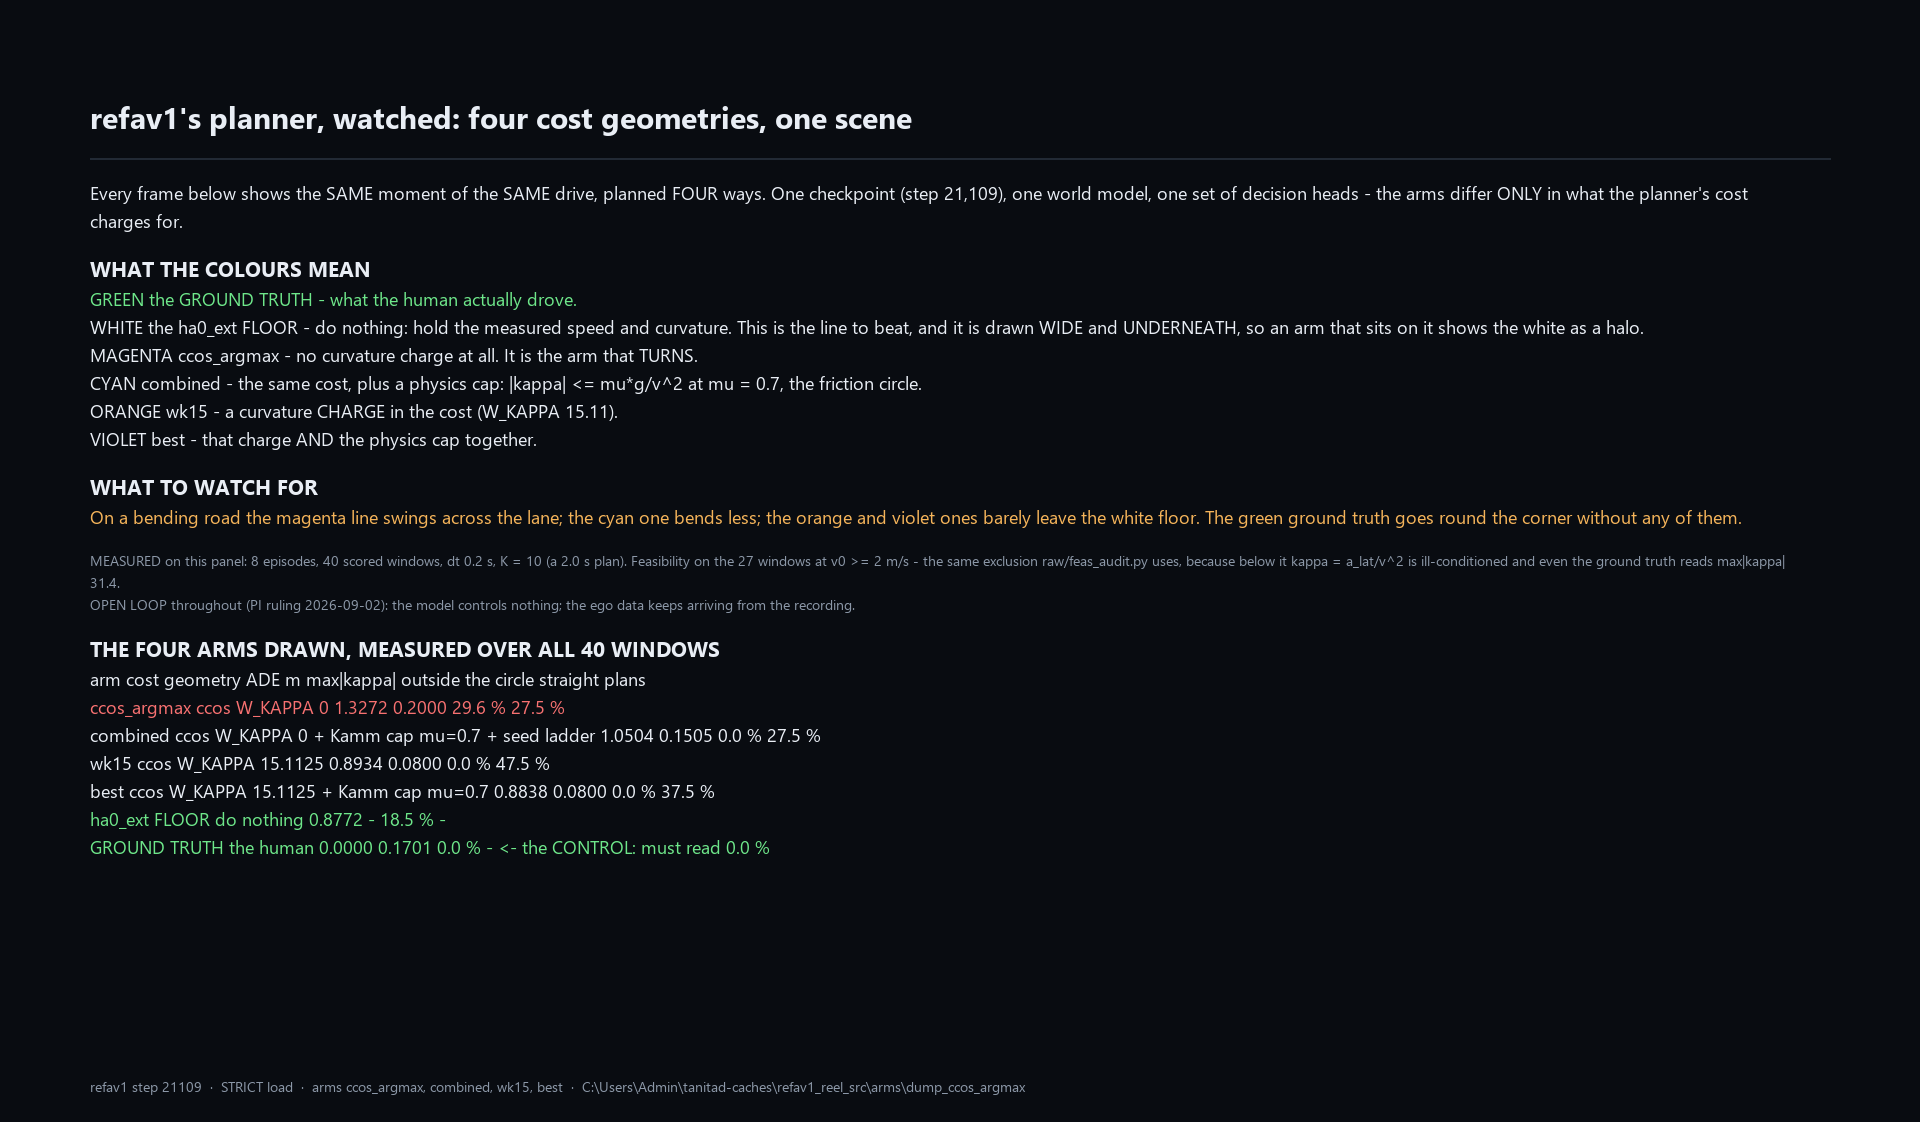
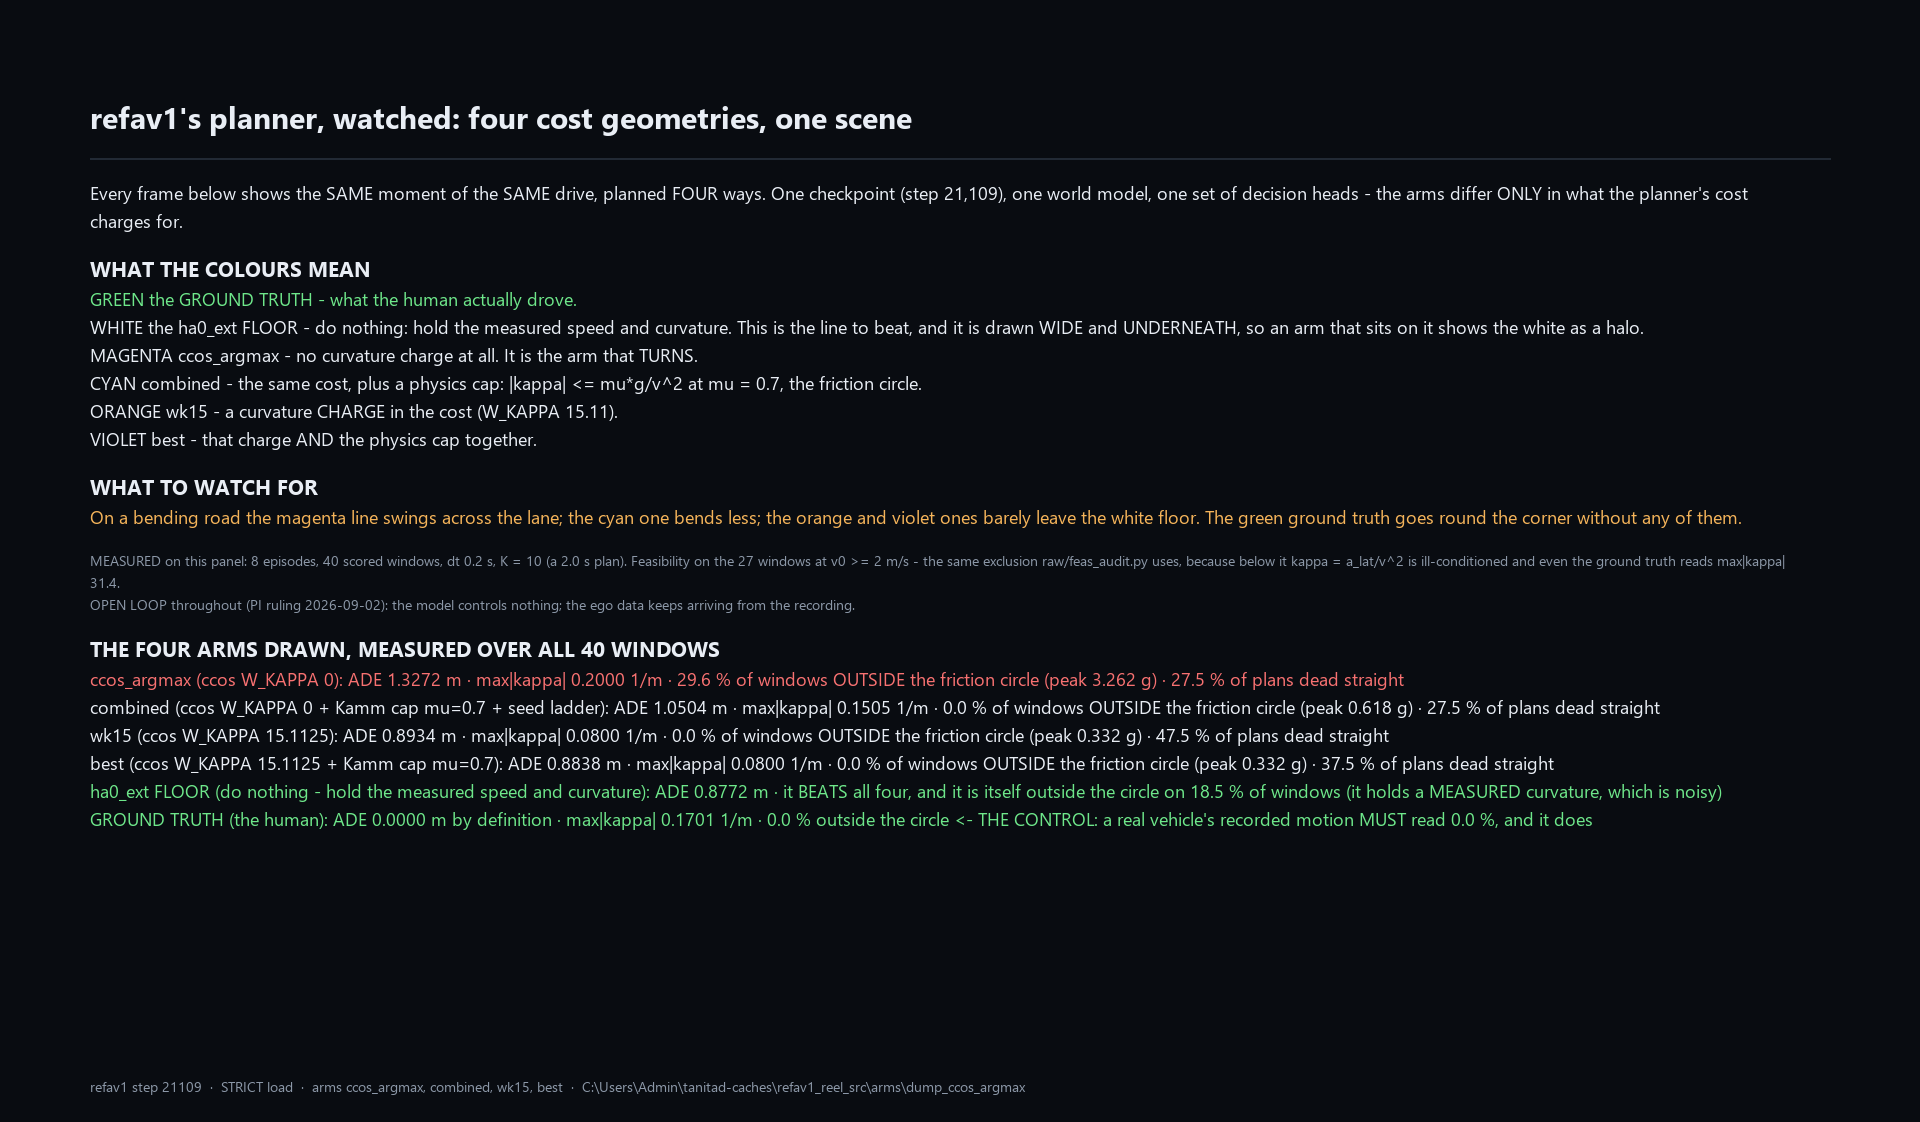
The reel's own cards were unreadable, and the floor is not inside the friction circle either
Two corrections to the arms reel, both found by looking at the artifact rather
than at the exit code.

1. THE CARDS WERE A GREY PARAGRAPH, NOT A TABLE. `draw_card` paints with a
   PROPORTIONAL face and wraps, so the column padding I had written collapsed
   into run-on text: "ccos_argmax ccos W_KAPPA 0 1.3272 0.2000 29.6 % 27.5 %".
   Every row is now a SENTENCE with its numbers labelled, which survives any
   face and any wrap. The intro and outro are the first and last thing a viewer
   reads; an unreadable summary of a 3.5-minute reel is a wasted reel.

2. THE DO-NOTHING FLOOR IS ITSELF OUTSIDE THE FRICTION CIRCLE ON 18.5 % OF
   WINDOWS (peak 1.436 g), and the doc had an em-dash there. MEASURED, and it
   matters: ha0_ext beats all four planner arms on ADE (0.8772 m against the
   best arm's 0.8838 m) while holding a MEASURED curvature that is noisy, so it
   is not a feasible reference -- only a hard-to-beat one. Writing "-" in that
   column let the floor read as safe as well as accurate, which it is not. Same
   family as quoting a number without its scope; the card now states it.

Refreshed stills, WINDOWS.json and STILLS.json from the corrected render (2,073
frames / 207.30 s, both mp4s DECODED BACK clean at 1920x1122 and 1280x748, both
under the 30 MiB delivery limit).

Changed region(s): [[0.0312, 0.5927, 0.9062, 0.7799]]

diff --git a/TanitAD Research Lab/Architecture & Inference/Research/2026-09-05-refav1-cost-geometry/raw/reel/make_cards.py b/TanitAD Research Lab/Architecture & Inference/Research/2026-09-05-refav1-cost-geometry/raw/reel/make_cards.py
@@ -139,21 +139,28 @@ intro = {"title": "refav1's planner, watched: four cost geometries, one scene",
        "nothing; the ego data keeps arriving from the recording."),
 ]}
 
-panel = [("THE FOUR ARMS DRAWN, MEASURED OVER ALL 40 WINDOWS", "h2"),
-         B("arm            cost geometry                          ADE m   "
-           "max|kappa|   outside the circle   straight plans")]
+# ⛔ NOT A MONOSPACED TABLE. `draw_card` paints with a PROPORTIONAL face and
+# wraps, so column padding collapses into run-on text -- MEASURED on the first
+# card render, where the panel read as one grey paragraph. Each row is a
+# SENTENCE with its numbers labelled, which survives any face and any wrap.
+panel = [("THE FOUR ARMS DRAWN, MEASURED OVER ALL 40 WINDOWS", "h2")]
 for r in drawn:
-    panel.append((f"{r['arm']:<14s} {r['geom']:<38s} {r['ade']:6.4f}   "
-                  f"{r['maxk']:8.4f}   {r['kamm']*100:12.1f} %   "
-                  f"{r['straight']*100:10.1f} %",
+    panel.append((f"{r['arm']} ({r['geom']}):   ADE {r['ade']:.4f} m   ·   "
+                  f"max|kappa| {r['maxk']:.4f} 1/m   ·   "
+                  f"{r['kamm']*100:.1f} % of windows OUTSIDE the friction "
+                  f"circle (peak {r['peak']:.3f} g)   ·   "
+                  f"{r['straight']*100:.1f} % of plans dead straight",
                   "bad" if r["kamm"] > 0 else "body"))
-panel.append(OK(f"{'ha0_ext FLOOR':<14s} {'do nothing':<38s} "
-                f"{floor_ade:6.4f}   {'-':>8s}   "
-                f"{fl_r['kamm_over_rate']*100:12.1f} %   {'-':>10s}"))
-panel.append(OK(f"{'GROUND TRUTH':<14s} {'the human':<38s} {0.0:6.4f}   "
-                f"{gt_r['max_abs_kappa']:8.4f}   "
-                f"{gt_r['kamm_over_rate']*100:12.1f} %   {'-':>10s}"
-                f"      <- the CONTROL: must read 0.0 %"))
+panel.append(OK(f"ha0_ext FLOOR (do nothing - hold the measured speed and "
+                f"curvature):   ADE {floor_ade:.4f} m   ·   it BEATS all four, "
+                f"and it is itself outside the circle on "
+                f"{fl_r['kamm_over_rate']*100:.1f} % of windows (it holds a "
+                f"MEASURED curvature, which is noisy)"))
+panel.append(OK(f"GROUND TRUTH (the human):   ADE 0.0000 m by definition   ·   "
+                f"max|kappa| {gt_r['max_abs_kappa']:.4f} 1/m   ·   "
+                f"{gt_r['kamm_over_rate']*100:.1f} % outside the circle   <- "
+                f"THE CONTROL: a real vehicle's recorded motion MUST read 0.0 %, "
+                f"and it does"))
 
 outro = {"title": "What the reel showed", "lines": [
     ("THE PLANNER", "h2"),

diff --git a/taniteval/tools/RENDER_REFAV1_ARMS_VIDEO.md b/taniteval/tools/RENDER_REFAV1_ARMS_VIDEO.md
@@ -33,7 +33,7 @@ trade-off cannot be seen one arm at a time. So this reel puts several arms on
 | `combined` | + Kamm cap `mu` 0.7 + seed ladder | 1.0504 | 0.1505 | **0.0 %**, peak 0.618 g | 27.5 % |
 | `wk15` | `ccos`, `W_KAPPA` 15.11 | 0.8934 | 0.0800 | 0.0 %, peak 0.332 g | **47.5 %** |
 | `best` | `W_KAPPA` 15.11 + Kamm cap | **0.8838** | 0.0800 | 0.0 %, peak 0.332 g | 37.5 % |
-| **`ha0_ext` FLOOR** | **do nothing** | **0.8772** | — | — | — |
+| **`ha0_ext` FLOOR** | **do nothing** | **0.8772** | — | 18.5 %, peak 1.436 g | — |
 | `g` **(CONTROL)** | the human | 0.0000 | 0.1701 | **0.0000** | — |
 
 ⇒ **the arm that TURNS drives WORST, and the do-nothing floor beats all four.**
